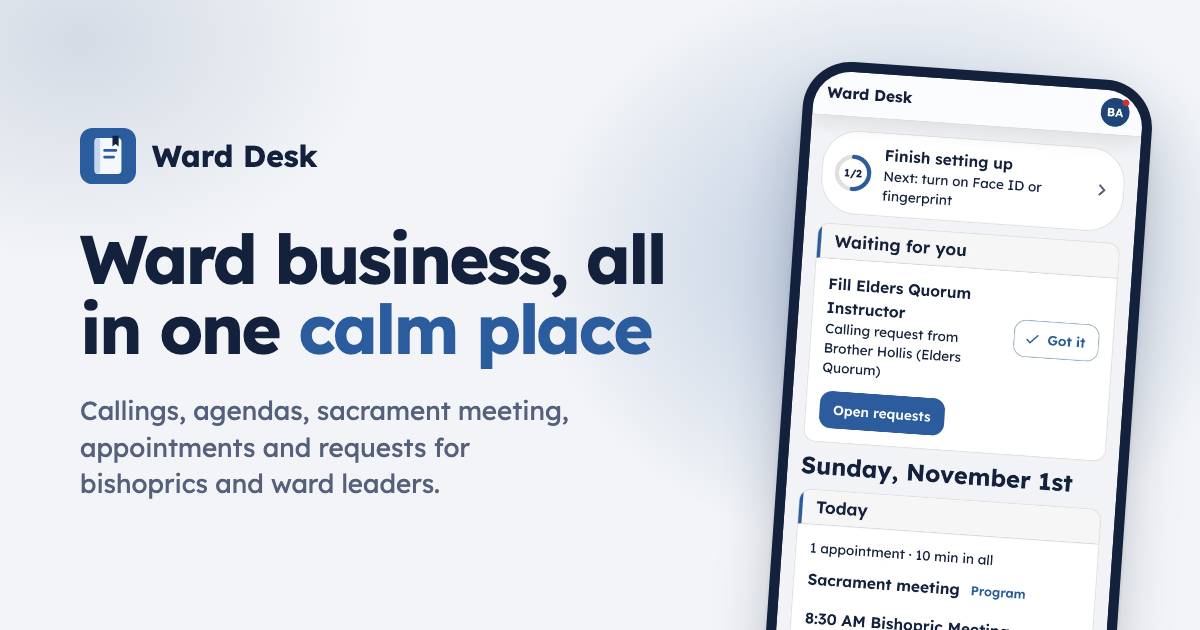
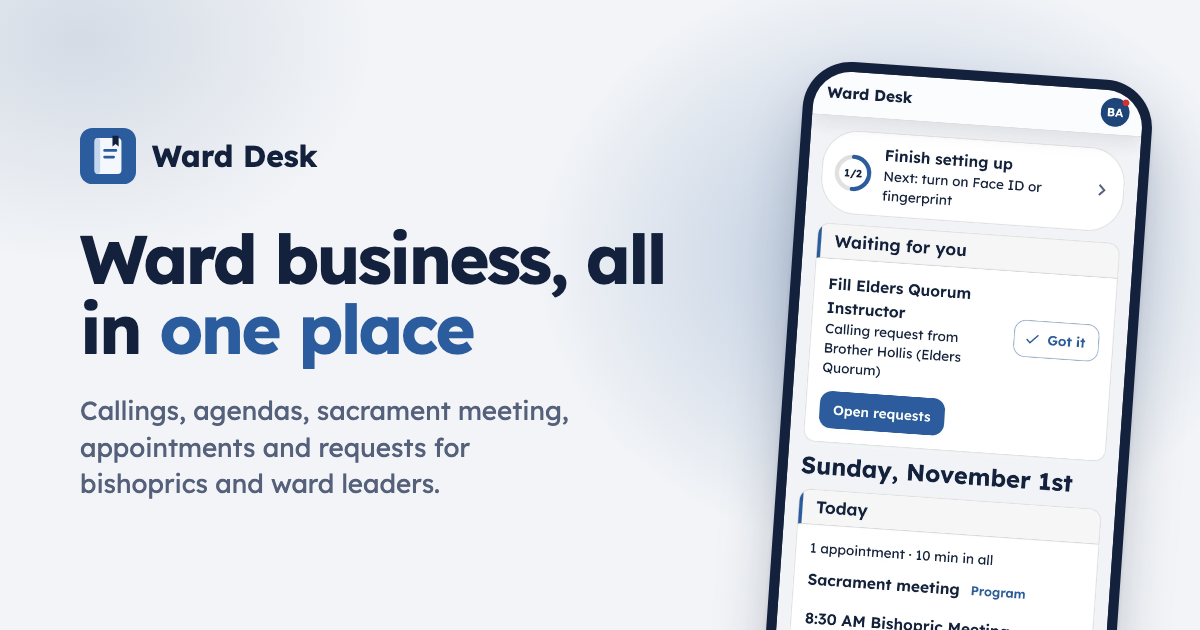
feat(site): shorten the headline to "all in one place"
Drop "calm" from the hero, page title, share-image alt text and the
share image itself, which is re-rendered from scripts/og/og.html.

Changed region(s): [[0.1233, 0.4825, 0.555, 0.6032]]

diff --git a/site/scripts/og/og.html b/site/scripts/og/og.html
@@ -30,7 +30,7 @@
 <body>
   <div class="copy">
     <div class="brand"><img src="../../src/assets/logo.svg" alt="" />Ward Desk</div>
-    <h1>Ward business, all in one <span>calm place</span></h1>
+    <h1>Ward business, all in <span>one place</span></h1>
     <p>Callings, agendas, sacrament meeting, appointments and requests for bishoprics and ward leaders.</p>
   </div>
   <div class="phone"><img src="../../src/assets/screens/home-bishop-phone-light.webp" alt="" /></div>
